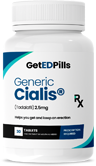
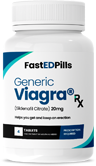
update brands

Changed region(s): [[0.125, 0.512, 0.7812, 0.6928], [0.25, 0.3614, 0.75, 0.4217], [0.1562, 0.7831, 0.2188, 0.8133]]

diff --git a/components/checkout/CheckoutInfo.js b/components/checkout/CheckoutInfo.js
@@ -1,6 +1,6 @@
 import { LinkIcon, LockClosedIcon, PencilIcon } from '@heroicons/react/20/solid';
 import { useRouter } from 'next/router';
-import React, { useState } from 'react'
+import React, { useEffect, useState } from 'react'
 import { useForm } from 'react-hook-form';
 import InputMask from "react-input-mask";
 import axios from "axios";
@@ -8,6 +8,7 @@ import axios from "axios";
 
 const CheckoutInfo = () => {
     const [formData, setFormData] = useState();
+    const [billingData, setBillingData] = useState();
     const [shipInfo, setShipInfo] = useState(false);
     const [shipInfoB, setShipInfoB] = useState(false);
     const [paymentInfo, setPaymentInfo] = useState(false);
@@ -21,9 +22,9 @@ const CheckoutInfo = () => {
     const [sameAddressFlag, setSameAddressFlag] = useState('0');
     const [adShipEdit, setAdShipEdit] = useState(false);
     const { register, handleSubmit, formState: { errors, isValid } } = useForm({ mode: 'onBlur', reValidateMode: "onChange" });
+    const BASE_URL = process.env.NEXT_PUBLIC_BASE_URL;
 
     const router = useRouter();
-
     const shippingInfoSubmit = (data) => {
         console.log(data);
         data['zipcode'] = zipcode;
@@ -58,13 +59,12 @@ const CheckoutInfo = () => {
             setShipInfoB(false);
             setPaymentInfo(true);
             setAdShipEdit(true);
-            console.log(data);
+            setBillingData(data);
         }
     }
 
     const getCityAndState = (e) => {
         var zipCode = e.target.value;
-        console.log(zipCode);
         setZipcode(zipCode);
         axios
             .get("https://ziptasticapi.com/" + zipCode)
@@ -99,14 +99,15 @@ const CheckoutInfo = () => {
     const setBilllingAddress = (e) => {
         if (e.target.checked == true) {
             setSameAddressFlag(1);
+            if (formData) {
+                setBillingData(formData)
+            }
         } else {
             setSameAddressFlag('0');
         }
     }
 
     const paymentInfoSubmit = (data) => {
-
-        console.log(data);
         data['zipcode'] = zipcode;
         data['state'] = state;
         data['city'] = city;
@@ -117,18 +118,16 @@ const CheckoutInfo = () => {
 
         data['token'] = localStorage.getItem("user_token");
         axios
-            .post(process.env.BASE_URL + "/user/user_information", data)
+            .post(BASE_URL + "/user/user_information", data)
             .then((responce) => {
                 console.log(responce.data);
                 if (responce.data.code == 200) {
                     alert("Form has been submitted successfully");
                     router.push("/")
                 }
-
             })
             .catch((error) => {
                 console.log(error);
-
             });
     }
 
@@ -427,22 +426,22 @@ const CheckoutInfo = () => {
                                 </div>
                             </div>
                             <div>
-                                    <label htmlFor="aditionalzipcode" className="block text-sm sm:text-lg font-medium text-[#525252]">
-                                        Zip Code
-                                    </label>
-                                    <div className="mt-2 sm:mt-3">
-                                        <input
-                                            id="aditionalzipcode"
-                                            name="aditionalzipcode"
-                                            type="text"
-                                            onChange={(e) => getCityAndStateAditional(e)}
-                                            defaultValue={aditionalzipcode}
-                                            // {...register('aditionalzipcode', { required: true })}
-                                            className="block w-full appearance-none rounded-md border border-gray400 px-3 py-3 sm:py-[15px] bg-[#fbfbfb] placeholder-placehoder focus:border-blue focus:outline-none focus:ring-blue text-xs sm:text-base"
-                                        />
-                                        {errors?.aditionalzipcode && <p className='text-orange text-xs mt-2'>Zip Code is required</p>}
-                                    </div>
+                                <label htmlFor="aditionalzipcode" className="block text-sm sm:text-lg font-medium text-[#525252]">
+                                    Zip Code
+                                </label>
+                                <div className="mt-2 sm:mt-3">
+                                    <input
+                                        id="aditionalzipcode"
+                                        name="aditionalzipcode"
+                                        type="text"
+                                        onChange={(e) => getCityAndStateAditional(e)}
+                                        defaultValue={aditionalzipcode}
+                                        // {...register('aditionalzipcode', { required: true })}
+                                        className="block w-full appearance-none rounded-md border border-gray400 px-3 py-3 sm:py-[15px] bg-[#fbfbfb] placeholder-placehoder focus:border-blue focus:outline-none focus:ring-blue text-xs sm:text-base"
+                                    />
+                                    {errors?.aditionalzipcode && <p className='text-orange text-xs mt-2'>Zip Code is required</p>}
                                 </div>
+                            </div>
                             <div className='grid grid-cols-1 sm:grid-cols-2 gap-5'>
                                 <div>
                                     <label htmlFor="aditionalstate" className="block text-sm sm:text-lg font-medium text-[#525252]">
@@ -498,7 +497,7 @@ const CheckoutInfo = () => {
                                         {errors?.aditionalcity && <p className='text-orange text-xs mt-2'>City is required</p>}
                                     </div>
                                 </div>
-                               
+
                             </div>
 
 
@@ -515,13 +514,11 @@ const CheckoutInfo = () => {
                 }
                 {adShipEdit &&
                     <div className='bg-[#f0f0f0] pt-6 px-4 md:px-7 pb-8'>
-                        <h6 className='text-heading font-medium text-base leading-none mb-7'>John Doe</h6>
-                        <p className='text-[#525252] text-sm'>2636 My Drive</p>
+                        <h6 className='text-heading font-medium text-base leading-none mb-7'>{billingData.firstname} {billingData.lastname}</h6>
+                        <p className='text-[#525252] text-sm'>{billingData.address}</p>
                         <p className='text-[#525252] text-sm'>New York, NY, 10013</p>
                     </div>
                 }
-
-
             </div>
 
 
@@ -541,10 +538,12 @@ const CheckoutInfo = () => {
                                     </label>
                                     <div className="mt-2 sm:mt-3">
 
-                                        <input
+                                        <InputMask
                                             id="cardnumber"
                                             name="cardnumber"
-                                            type="number"
+                                            type="text"
+                                            mask="9999 9999 9999 9999"
+                                            maskChar=''
                                             {...register('cardnumber', { required: true })}
                                             className="block w-full appearance-none rounded-md border border-gray400 px-3 py-3 sm:py-[15px] bg-[#fbfbfb] placeholder-placehoder focus:border-blue focus:outline-none focus:ring-blue text-xs sm:text-base"
                                         />
@@ -557,10 +556,12 @@ const CheckoutInfo = () => {
                                     </label>
                                     <div className="mt-2 sm:mt-3">
 
-                                        <input
+                                        <InputMask
                                             id="expiry"
                                             name="expiry"
-                                            type="number"
+                                            type="text"
+                                            mask="99/99"
+                                            maskChar=''
                                             {...register('expiry', { required: true })}
                                             className="block w-full appearance-none rounded-md border border-gray400 px-3 py-3 sm:py-[15px] bg-[#fbfbfb] placeholder-placehoder focus:border-blue focus:outline-none focus:ring-blue text-xs sm:text-base"
                                         />
@@ -572,11 +573,12 @@ const CheckoutInfo = () => {
                                         CVC
                                     </label>
                                     <div className="mt-2 sm:mt-3">
-                                        <input
+                                        <InputMask
                                             id="cvc"
                                             name="cvc"
-                                            type="number"
-
+                                            type="text"
+                                            mask="999"
+                                            maskChar=''
                                             {...register('cvc', { required: true })}
                                             className="block w-full appearance-none rounded-md border border-gray400 px-3 py-3 sm:py-[15px] bg-[#fbfbfb] placeholder-placehoder focus:border-blue focus:outline-none focus:ring-blue text-xs sm:text-base"
                                         />

diff --git a/components/products/Testimonials.js b/components/products/Testimonials.js
@@ -67,7 +67,7 @@ const Testimonials = () => {
                                     <StarIcon className="w-6 h-6 text-[#fed144]" />
                                 </div>
                                 <h5 className='text-base text-[#21293c] font-medium my-7'>Simple and fast</h5>
-                                <p className='text-[#21293c]'>GetEDPills is what’s missing in healthcare.
+                                <p className='text-[#21293c]'>FastEDPills is what’s missing in healthcare.
                                     Real, sensible service that doesn’t make
                                     you jump through hoops. Very affordable
                                     too. This is the way it should be.</p>
@@ -87,7 +87,7 @@ const Testimonials = () => {
                                     <StarIcon className="w-6 h-6 text-[#fed144]" />
                                 </div>
                                 <h5 className='text-base text-[#21293c] font-medium my-7'>Simple and fast</h5>
-                                <p className='text-[#21293c]'>GetEDPills is what’s missing in healthcare.
+                                <p className='text-[#21293c]'>FastEDPills is what’s missing in healthcare.
                                     Real, sensible service that doesn’t make
                                     you jump through hoops. Very affordable
                                     too. This is the way it should be.</p>
@@ -107,7 +107,7 @@ const Testimonials = () => {
                                     <StarIcon className="w-6 h-6 text-[#fed144]" />
                                 </div>
                                 <h5 className='text-base text-[#21293c] font-medium my-7'>Simple and fast</h5>
-                                <p className='text-[#21293c]'>GetEDPills is what’s missing in healthcare.
+                                <p className='text-[#21293c]'>FastEDPills is what’s missing in healthcare.
                                     Real, sensible service that doesn’t make
                                     you jump through hoops. Very affordable
                                     too. This is the way it should be.</p>
@@ -127,7 +127,7 @@ const Testimonials = () => {
                                     <StarIcon className="w-6 h-6 text-[#fed144]" />
                                 </div>
                                 <h5 className='text-base text-[#21293c] font-medium my-7'>Simple and fast</h5>
-                                <p className='text-[#21293c]'>GetEDPills is what’s missing in healthcare.
+                                <p className='text-[#21293c]'>FastEDPills is what’s missing in healthcare.
                                     Real, sensible service that doesn’t make
                                     you jump through hoops. Very affordable
                                     too. This is the way it should be.</p>

diff --git a/components/howitworks/Index.js b/components/howitworks/Index.js
@@ -17,7 +17,7 @@ const HowItWorks = () => {
             <div className="mx-auto md:px-12 xl:px-0 xl:max-w-screen-xl">
                 <div className='bg-white pt-12 px-8 pb-8 border border-gray'>
                     <h1 className='theme-heading text-center'>How it works</h1>
-                    <p className='text-base lg:text-xl uppercase text-center mt-4'>GET E.D. MEDICATION THE RIGHT WAY WITH GetEDPills</p>
+                    <p className='text-base lg:text-xl uppercase text-center mt-4'>GET E.D. MEDICATION THE RIGHT WAY WITH FastEDPills</p>
 
                     <div className='grid grid-cols-1 lg:grid-cols-3 gap-16 mt-10 md:mt-12 pt-1'>
                         <div className='relative'>
@@ -35,7 +35,7 @@ const HowItWorks = () => {
                                 title="SELECT PREFERRED TREATMENT"
                                 paragraph="Choose from our selection of E.D. 
                             treatments that fit your lifestyle and 
-                            budget. GetEDPills offers branded Viagra 
+                            budget. FastEDPills offers branded Viagra 
                             and Cialis, as well as affordable generic 
                             options to lower treatment costs."
                                 icon={preferredTreatmentIcon}
@@ -67,7 +67,7 @@ const HowItWorks = () => {
                 <div className='bg-white pt-14 px-8 pb-12 border border-gray'>
                     <div className='max-w-3xl mx-auto'>
                         <h2 className='text-center text-heading text-2xl md:text-[30px] font-bold'>Treating E.D. in the 21st Century </h2>
-                        <p className='text-center text-base lg:text-lg mt-4'>GetEDPills offers the right system to help you get the treatment you need,
+                        <p className='text-center text-base lg:text-lg mt-4'>FastEDPills offers the right system to help you get the treatment you need,
                             right from the comfort and privacy of your home
                         </p>
 

diff --git a/components/questionnaire/Questionnaire.js b/components/questionnaire/Questionnaire.js
@@ -29,6 +29,7 @@ const Questionnaire = () => {
     }
     const prevStep = () => setStep(step - 1);
     const router = useRouter();
+    const BASE_URL = process.env.NEXT_PUBLIC_BASE_URL;
 
     // function handleInputChange(e) {
     //     setFormData({
@@ -63,26 +64,26 @@ const Questionnaire = () => {
         console.log(data);
         data['token'] = localStorage.getItem("user_token");
         axios
-            .post(process.env.BASE_URL + "/user/user_answer", data)
+            .post(BASE_URL + "/user/user_answer", data)
             .then((responce) => {
                 console.log(responce.data);
-                if(responce.data.code == 200){
+                if (responce.data.code == 200) {
                     var user_data = JSON.parse(responce.data.data.answers);
-                   
+
                     var existing = localStorage.getItem("user_obj");
                     // var user = JSON.parse(localStorage.getItem('dummy_user'));
                     existing = existing ? JSON.parse(existing) : {};
                     existing["first_name"] = user_data.firstname;
                     existing["last_name"] = user_data.lastname;
                     localStorage.setItem("user_obj", JSON.stringify(existing));
-                    const {pathname} = Router;
+                    const { pathname } = Router;
                     Router.push('/recommendations')
                 }
-                
+
             })
             .catch((error) => {
                 console.log(error);
-                
+
             });
         // if (data && isValid) {
         //     router.push('recommendations');

diff --git a/components/Header.js b/components/Header.js
@@ -70,9 +70,10 @@ const Header = () => {
 
                                     <div className="relative z-10 flex px-2 lg:px-0">
                                         <div className="flex flex-shrink-0 items-center">
-                                            <Link href="/">
-                                                <Image src="/images/logo.png" className='hidden lg:block' alt="logo" width="165" height="29" />
-                                                <Image src="/images/white-logo.png" className='lg:hidden' alt="logo" width="165" height="29" />
+                                            <Link href="/" className='text-white lg:text-[#070708] text-3xl font-bold'>
+                                                Fast<span className='text-[#070708] lg:text-blue'>ED</span>Pills
+                                                {/* <Image src="/images/logo.png" className='hidden lg:block' alt="logo" width="165" height="29" />
+                                                <Image src="/images/white-logo.png" className='lg:hidden' alt="logo" width="165" height="29" /> */}
                                             </Link>
                                         </div>
                                     </div>
@@ -207,6 +208,7 @@ const Header = () => {
                 router.asPath !== "/recommendations" &&
                 router.asPath !== "/cart" &&
                 router.asPath !== "/order-form" &&
+                router.asPath !== "/signin" &&
                 <Breadcrumb />
             }
 

diff --git a/components/faq/Index.js b/components/faq/Index.js
@@ -28,7 +28,7 @@ const FAQ = () => {
             answer: "Lorem ipsum dolor sit amet, consectetur adipiscing elit. Nulla tempus purus nec commodo tincidunt. In ipsum nisi, eleifend vitae dolor suscipit, hendrerit dapibus purus. Vestibulum egestas magna nec turpis euismod, pellentesque posuere nunc ultricies. Etiam euismod odio quis turpis dignissim aliquam"
         },
         {
-            label: "Can I get a prescription from GetEDPills?",
+            label: "Can I get a prescription from FastEDPills?",
             answer: "Lorem ipsum dolor sit amet, consectetur adipiscing elit. Nulla tempus purus nec commodo tincidunt. In ipsum nisi, eleifend vitae dolor suscipit, hendrerit dapibus purus. Vestibulum egestas magna nec turpis euismod, pellentesque posuere nunc ultricies. Etiam euismod odio quis turpis dignissim aliquam"
         },
         {

diff --git a/components/Footer.js b/components/Footer.js
@@ -131,7 +131,7 @@ const Footer = () => {
                             </div>
                             <div className='flex items-center sm:justify-center lg:justify-start gap-2 mt-7 md:my-2'>
                                 <Image src="/images/dmca.png" className='hidden lg:block' alt="dmca" width="121" height="24" />
-                                <p className='text-xs text-white text-left sm:text-center lg:text-left'>© GetEDPills Services Inc. 2022</p>
+                                <p className='text-xs text-white text-left sm:text-center lg:text-left'>© FastEDPills Services Inc. 2022</p>
                             </div>
                             <p className='text-xs text-white opacity-60 hidden lg:block'>1234 Lorem Ipsum Dolor ABC 23, Address Here, DE, 12345 | DUNS Number: 12-345-6789</p>
                         </div>

diff --git a/components/Signup.js b/components/Signup.js
@@ -9,6 +9,7 @@ const Signup = () => {
     const { register, handleSubmit, formState: { errors, isValid } } = useForm({ mode: 'onBlur', reValidateMode: "onChange" });
     const [passwordStrength, setPasswordStrength] = useState(null);
     const [showError, setShowError] = useState(false);
+    const BASE_URL = process.env.NEXT_PUBLIC_BASE_URL;
 
     // const strongPasswordRegex = /^(?=.*[a-z])(?=.*[A-Z])(?=.*[0-9])(?=.*[!@#\$%\^&\*])(?=.{8,})/;
 
@@ -19,7 +20,7 @@ const Signup = () => {
 
     const onSubmit = data => {
         axios
-            .post(process.env.BASE_URL + "/user/signup", data)
+            .post(BASE_URL + "/user/signup", data)
             .then((responce) => {
                 console.log(responce.data);
                 if (responce.data.code == 200) {

diff --git a/pages/register-an-account.js b/pages/register-an-account.js
@@ -5,7 +5,7 @@ export default function RegisterAnAccount() {
     return (
         <>
             <Head>
-                <title>Sign up for a new account | GetEDPills</title>
+                <title>Sign up for a new account | FastEDPills</title>
                 <meta name="description" content="Generated by create next app" />
                 <meta name="viewport" content="width=device-width, initial-scale=1" />
                 <link rel="icon" href="/favicon.ico" />

diff --git a/pages/order-form.js b/pages/order-form.js
@@ -5,7 +5,7 @@ export default function HowitWork() {
     return (
         <>
             <Head>
-                <title>Recommendation Questions | GetEDPills</title>
+                <title>Recommendation Questions | FastEDPills</title>
                 <meta name="description" content="Generated by create next app" />
                 <meta name="viewport" content="width=device-width, initial-scale=1" />
                 <link rel="icon" href="/favicon.ico" />

diff --git a/pages/recommendations.js b/pages/recommendations.js
@@ -5,7 +5,7 @@ export default function RecommendPage() {
     return (
         <>
             <Head>
-                <title>Recommendation | GetEDPills</title>
+                <title>Recommendation | FastEDPills</title>
                 <meta name="description" content="Generated by create next app" />
                 <meta name="viewport" content="width=device-width, initial-scale=1" />
                 <link rel="icon" href="/favicon.ico" />

diff --git a/pages/how-it-works.js b/pages/how-it-works.js
@@ -5,7 +5,7 @@ export default function HowitWork() {
     return (
         <>
             <Head>
-                <title>How it works | GetEDPills</title>
+                <title>How it works | FastEDPills</title>
                 <meta name="description" content="Generated by create next app" />
                 <meta name="viewport" content="width=device-width, initial-scale=1" />
                 <link rel="icon" href="/favicon.ico" />
